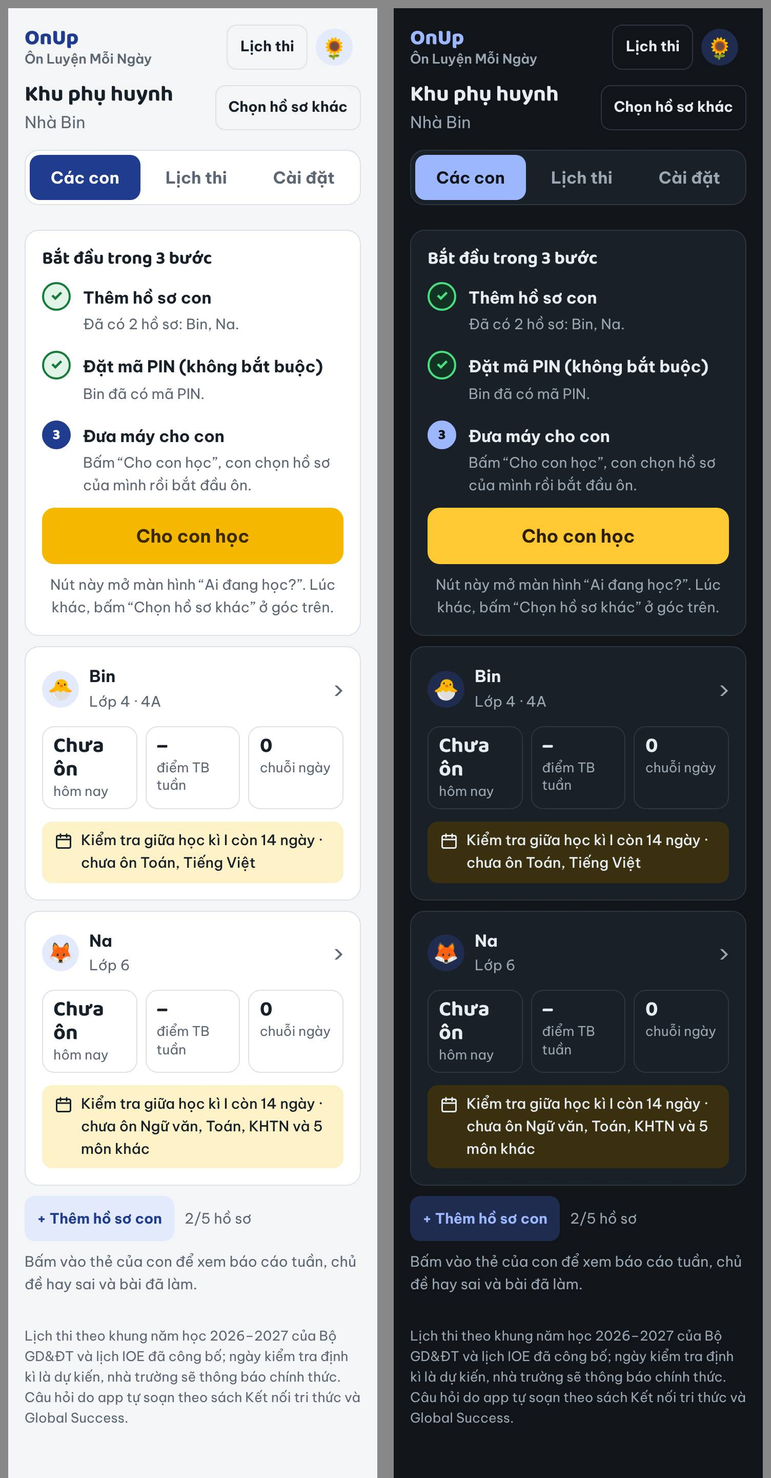
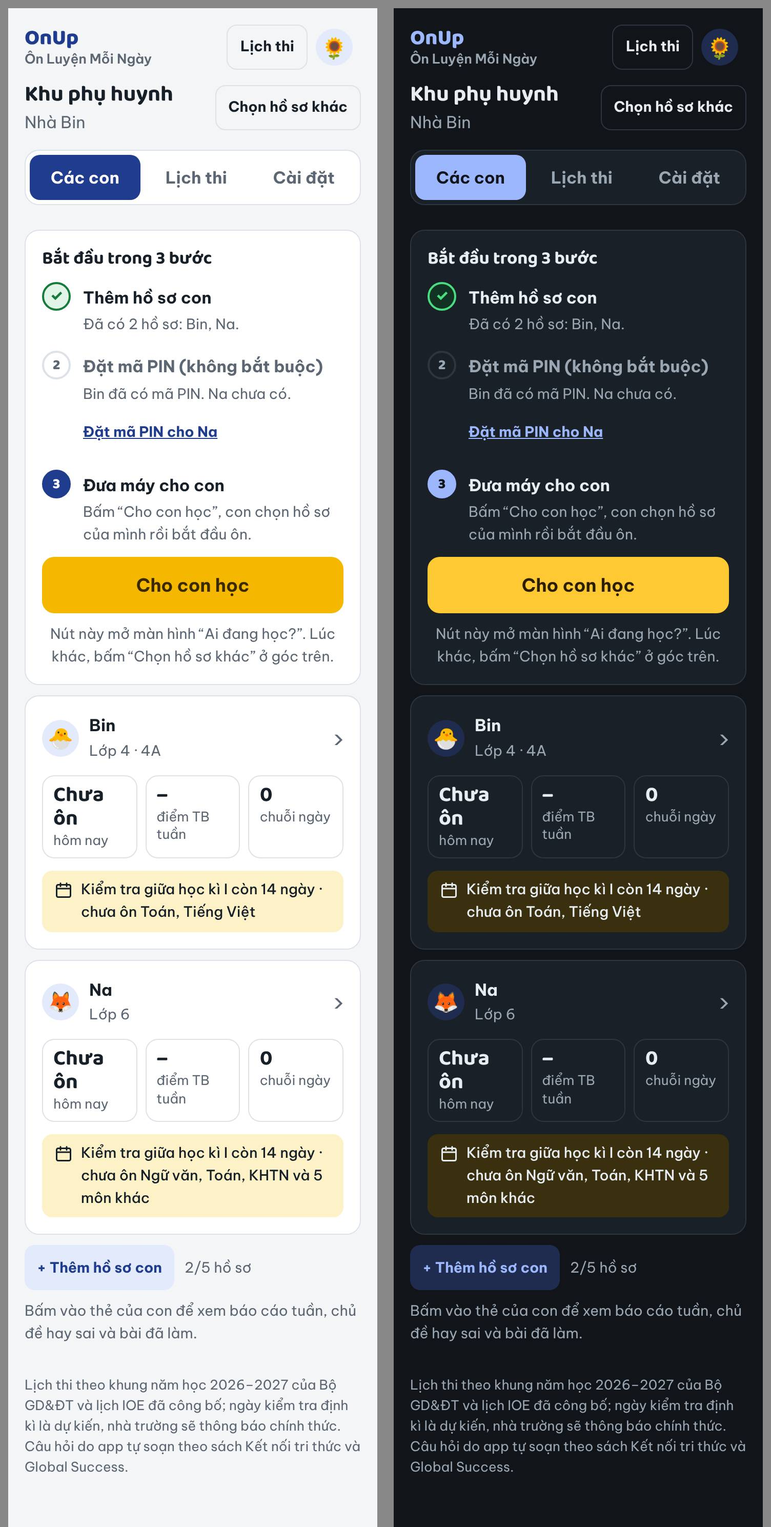
Docs Phiên UX3b: CLAUDE.md, kế hoạch (UX3b đã xong), TINH-NANG, ảnh docs/hinh-ux3
CLAUDE.md mục “Bắt đầu và chuyển máy cho con”: bước 2 của thẻ Bắt đầu, hộp
đăng xuất hỏi mật khẩu, chữ ô mã mở nhanh, checkPassword(mật khẩu, chỗ đặt
ô CAPTCHA?), các kiểm tra và ảnh mới. Kế hoạch: UX3b đã xong, tiếp theo là
UX5. Ảnh 360px sáng/tối từ cloud-e2e.js: thẻ Bắt đầu khi Na chưa có mã, form
mở từ thẻ, thẻ khi đủ mã, hộp đăng xuất (và khi sai mật khẩu), ô mã mở nhanh,
trang Tài khoản trên máy chưa ghi nhớ.

Claude-Session: https://claude.ai/code/session_01KisjWxbJuciHQexW322w5b

diff --git a/CLAUDE.md b/CLAUDE.md
@@ -106,11 +106,13 @@ App còn **đọc** (không ghi) DOM của khung để biết học sinh đang l
 - **Cài đặt (bản đám mây):** Hồ sơ con (N/5, danh sách, + Thêm), Đề tự soạn (số đề, nút “Xem đề tự soạn” → `#/admin/banks`, “+ Nhập đề”), Thông tin chung (tên gia đình, năm học), rồi hai dòng “Chuyển dữ liệu và sao lưu” (`#/admin/data`: chuyển dữ liệu máy này, câu bị báo sai, tải file sao lưu) và “Tài khoản” (`#/account`: đổi mật khẩu, đăng xuất; nút quay lại về Cài đặt). `#/admin/users` (địa chỉ cũ) về Cài đặt; `#/admin/banks` là trang “Đề tự soạn” (đề tự nhập trước, mỗi đề ghi đã gắn vào kì thi nào; đề có sẵn thu gọn trong `details#seedBanks`); hai trang con hiện tab Cài đặt đang chọn (`SETTINGS_SUB`). Form nhập đề ở bản đám mây gọi là “Nhập đề”, nút “Lưu đề”. Thêm hồ sơ con xong về Các con, sửa xong về Cài đặt (`renderUserForm`).
 - Kiểm thử: bước UX2 của `tests/e2e.js` (phụ huynh bản lưu trên máy, ảnh `tests/screenshots/ux2/`) và các kiểm tra “UX2:” của `tests/supabase/cloud-e2e.js` (ảnh `c5-cai-dat`, `c5b-de-tu-soan`, `c6-cac-con`, `c6b-lich-thi`, `c6c-sua-ngay`, `c11-cac-con`, `c12-bao-cao-tuan`).
 
-### Bắt đầu và chuyển máy cho con (Phiên UX3, bản đám mây, js/app.js + js/store-supabase.js)
-- **Thẻ “Bắt đầu trong 3 bước”** (`startCard`, `section#start`) đứng đầu mục Các con: Thêm hồ sơ con (nút “+ Thêm hồ sơ con” nằm trong thẻ khi chưa có con; có con thì ghi tên các con) → Đặt mã PIN (không bắt buộc; con nào có PIN thì ✓, chưa ai có thì link “Đặt mã PIN” sang form sửa hồ sơ, nhiều con thì sang Cài đặt) → Đưa máy cho con. Bước đang làm `.step.now`, bước xong `.step.done` (dấu ✓). Nút to “Cho con học” (`#letStudy`, `.btn.lg`, mờ khi chưa có hồ sơ con) gọi `switchWho` mở “Ai đang học?”. Thẻ ẩn khi một con đã học (`startDone`: con có kết quả, hoặc đã chọn hồ sơ con trên máy này — `Store.lastUserId()`); chưa có con thì mục Các con chỉ có thẻ này (không có dòng “N/5 hồ sơ”).
+### Bắt đầu và chuyển máy cho con (Phiên UX3, sửa sau kiểm thử ở Phiên UX3b; bản đám mây, js/app.js + js/store-supabase.js)
+- **Thẻ “Bắt đầu trong 3 bước”** (`startCard`, `section#start`) đứng đầu mục Các con: Thêm hồ sơ con (nút “+ Thêm hồ sơ con” nằm trong thẻ khi chưa có con; có con thì ghi tên các con) → Đặt mã PIN (không bắt buộc) → Đưa máy cho con. Bước đang làm `.step.now`, bước xong `.step.done` (dấu ✓). Nút to “Cho con học” (`#letStudy`, `.btn.lg`, mờ khi chưa có hồ sơ con) gọi `switchWho` mở “Ai đang học?”. Thẻ ẩn khi một con đã học (`startDone`: con có kết quả, hoặc đã chọn hồ sơ con trên máy này — `Store.lastUserId()`); chưa có con thì mục Các con chỉ có thẻ này (không có dòng “N/5 hồ sơ”).
+- **Bước 2 “Đặt mã PIN”** (UX3b, X18, X19): chỉ ✓ khi mọi con đã có mã. Còn con chưa có thì ghi “Bin đã có mã PIN. Na chưa có.” (chưa ai có thì “Để anh chị em không vào nhầm hồ sơ của nhau.”) kèm link “Đặt mã PIN cho Na” (`.step .linkbtn`) mở thẳng hồ sơ của con đầu tiên chưa có mã, kể cả khi nhà nhiều con: `#/admin/user/<mã>?tu=batdau`. `renderUserForm` với `query.tu === "batdau"` (`fromStart`): ô `#uPin` được focus và cuộn vào giữa màn hình; nút quay lại và lưu xong về Các con (`#/admin/overview`), có mã thì toast “Đã đặt mã PIN cho <tên>”, để trống thì toast “Đã lưu” như thường. Mở form từ chỗ khác (Cài đặt → Hồ sơ con, báo cáo của con) thì vẫn về Cài đặt như UX2. Bước 3 và nút “Cho con học” bật khi đã có hồ sơ con, kể cả khi bước 2 chưa xong.
+- **Đăng xuất khỏi máy này hỏi mật khẩu** (UX3b, X17, màn E4): nút `#signOut` ở trang Tài khoản của Phụ huynh (`renderCloudAccount`) gọi `openSignOut`, vẽ hộp `form.confirm#outBox` vào `#outArea` ngay dưới hàng nút (không phải hộp nổi): “Đăng xuất khỏi máy này?”, dòng “Nhập mật khẩu của bố mẹ để xác nhận. Mã mở nhanh không dùng được ở đây.”, ô `#outPw` (`type="password"`, nút xem qua `wireReveal`), ô CAPTCHA `#outCaptcha`, lỗi `#outErr`, nút “Đăng xuất” `#outYes` và “Thôi” `#outNo`, dòng “Quên mật khẩu?” (`contactLine`). Lúc nào cũng hỏi, kể cả khi vừa nhập mật khẩu (`parentUnlocked`); mã mở nhanh không dùng được. Kiểm bằng `Store.checkPassword(mật khẩu, "#outCaptcha")`: tham số thứ hai là chỗ đặt ô CAPTCHA, mặc định `#pwCaptcha` (ô của form đổi mật khẩu và của bước nhập Phụ huynh). Sai thì báo trong hộp và `PinLock.fail` của Phụ huynh như ở bước nhập (đang phải đợi thì `#outYes` mờ, đếm ngược trong hộp, hết giờ tự bật lại); đúng thì `PinLock.clear`, `Store.signOut()` (xóa cả mã mở nhanh) rồi về màn đăng nhập. Nút Đăng xuất ở màn đổi mật khẩu tạm (`#npOut`) và màn tài khoản bị khóa (`#bOut`) giữ nguyên, không hỏi.
 - **“Chọn hồ sơ khác”** là tên thống nhất của nút về “Ai đang học?” (`#switchWho`, `switchWho()`): góc trên khu phụ huynh, trang Tài khoản của phụ huynh và của con. Không dùng “Đổi người học” nữa (UX4 dùng cùng tên cho link “← Chọn hồ sơ khác”).
-- **Mã mở nhanh khu phụ huynh:** trên máy đã ghi nhớ đăng nhập (`Store.rememberLogin()`), bố mẹ đặt mã 4–6 số ở Cài đặt → Tài khoản (`quickBox`, `form#qcBox`: ô `#qcNew` có `data-what="mã mở nhanh"`, nút Lưu mã / Đổi mã `#qcSave`, Bỏ mã `#qcDrop`; máy không ghi nhớ thì chỉ có lời nhắc chọn “Ghi nhớ trên máy này”). Kho: `Store.setQuickCode(mã | null)` (băm như PIN với muối ghi độ dài, lưu localStorage `ontap_cloud_quick` theo mã gia đình, không gửi lên máy chủ), `Store.quickCodeLen()` (0 = chưa có), `Store.checkQuickCode(mã)` (đúng thì mở khóa như vừa nhập mật khẩu, `setSession(PARENT)` được phép). Ở “Ai đang học?” (`renderLogin`), ô Phụ huynh ghi “Nhập mã mở nhanh” và mở bàn phím PIN dùng chung (`box.show(u, { label, sub, alt })`: nhãn ô `#pinLabel` “Mã mở nhanh”, dòng phụ `#pinSub`, link `#pinToPw` “Nhập mật khẩu” trong `#pinAlt`); ô mật khẩu có link `#pwToPin` “Dùng mã mở nhanh”. Sai mã tính vào `PinLock` của Phụ huynh như sai mật khẩu. Đổi mật khẩu, đăng xuất vẫn cần mật khẩu; đăng xuất (cả khi máy chủ từ chối phiên) xóa mã. Không có màn hỏi “Đây là máy của nhà mình?” (chủ app bỏ, 18/10/2026).
-- Kiểm thử: `tests/supabase/store-test.mjs` (mục 6: đặt, kiểm tra, bỏ mã; máy không ghi nhớ không đặt được) và các kiểm tra “UX3:” của `tests/supabase/cloud-e2e.js` (ảnh `c3-khu-phu-huynh-moi`, `c6-cac-con`, `c10b-ma-mo-nhanh`, `c13b-ma-mo-nhanh`; chép sang `docs/hinh-ux3/`).
+- **Mã mở nhanh khu phụ huynh:** trên máy đã ghi nhớ đăng nhập (`Store.rememberLogin()`), bố mẹ đặt mã 4–6 số ở Cài đặt → Tài khoản (`quickBox`, `form#qcBox`: ô `#qcNew` có `data-what="mã mở nhanh"`, nút Lưu mã / Đổi mã `#qcSave`, Bỏ mã `#qcDrop`; dòng cuối “Mã chỉ lưu trên máy này, không gửi đi đâu…”, không có chữ kĩ thuật như “băm”; máy không ghi nhớ thì chỉ có lời nhắc: bấm “Đăng xuất khỏi máy này”, rồi đăng nhập lại và chọn “Ghi nhớ trên máy này”, X20). Kho: `Store.setQuickCode(mã | null)` (băm như PIN với muối ghi độ dài, lưu localStorage `ontap_cloud_quick` theo mã gia đình, không gửi lên máy chủ), `Store.quickCodeLen()` (0 = chưa có), `Store.checkQuickCode(mã)` (đúng thì mở khóa như vừa nhập mật khẩu, `setSession(PARENT)` được phép). Ở “Ai đang học?” (`renderLogin`), ô Phụ huynh ghi “Nhập mã mở nhanh” và mở bàn phím PIN dùng chung (`box.show(u, { label, sub, alt })`: nhãn ô `#pinLabel` “Mã mở nhanh”, dòng phụ `#pinSub`, link `#pinToPw` “Nhập mật khẩu” trong `#pinAlt`); ô mật khẩu có link `#pwToPin` “Dùng mã mở nhanh”. Sai mã tính vào `PinLock` của Phụ huynh như sai mật khẩu. Đổi mật khẩu, đăng xuất vẫn cần mật khẩu; đăng xuất (cả khi máy chủ từ chối phiên) xóa mã. Không có màn hỏi “Đây là máy của nhà mình?” (chủ app bỏ, 18/10/2026).
+- Kiểm thử: `tests/supabase/store-test.mjs` (mục 6: đặt, kiểm tra, bỏ mã; máy không ghi nhớ không đặt được; mục 10: `checkPassword` đặt ô CAPTCHA vào chỗ được truyền) và các kiểm tra “UX3:”, “UX3b (X17–X20)” của `tests/supabase/cloud-e2e.js` (ảnh `c3-khu-phu-huynh-moi`, `c6-cac-con` (Bin có mã, Na chưa), `c6d-dat-ma-pin-tu-the`, `c6e-du-ma-pin`, `c10b-ma-mo-nhanh`, `c13b-ma-mo-nhanh`, `c13c-dang-xuat`, `c13d-dang-xuat-sai`, `c14b-tai-khoan-chua-ghi-nho`; chép sang `docs/hinh-ux3/`).
 
 ### Chọn hồ sơ và nhập PIN (Phiên UX4, js/app.js + css/app.css, cả hai bản)
 - **Bước nhập riêng** `#/vao/<mã>` (`renderEnter`): ở danh sách “Ai đang học?” / “Xin chào!” (`renderLogin`), chạm hồ sơ phải nhập (`needsEntry`: bản lưu trên máy mọi tài khoản; bản đám mây hồ sơ con có PIN và ô Phụ huynh) thì đổi hash sang `#/vao/<mã>` (`enterHash`), nên nút Back của điện thoại về danh sách; hồ sơ không có PIN chạm là vào. Màn nhập: link `#toList` “← Chọn hồ sơ khác” (mở từ danh sách thì `history.back()`, mở thẳng thì `location.replace("#/")`), đầu trang `#pinWho` (hình to, tên, lớp; Phụ huynh: tên gia đình · tên đăng nhập), rồi `#pinBox` (dòng `#pinSub` “Nhập mã PIN của bạn”, hàng chấm `#pinDots`, lỗi `#pinErr`, nút chữ `#pinShow` “Hiện số”, bàn phím `.pad`, link `#pinAlt`) và dòng `#pinHelp` quên PIN (bản đám mây: “Nhờ bố mẹ đặt lại trong Khu phụ huynh → Cài đặt → Hồ sơ con.”; bản lưu trên máy: “Nhờ quản trị đặt lại trong Quản trị → Tài khoản.”; không có ở vai trò admin). Cả màn vừa 360×740 không cuộn (`renderLogin` gọi `scrollTo(0, 0)`); `.enter`, `.enter-who`, `.enter-help` trong css/app.css. Vào được thì `loginEnter` thay mục lịch sử `#/vao/…` bằng `#/home` (`location.replace`); `route()` có `case "vao"` về trang chính khi đã đăng nhập; `calm()` không vẽ lại khi đang ở `/vao/`. Hồ sơ chọn gần nhất (`Store.lastUserId()`) chỉ được đánh dấu `aria-pressed` trên danh sách, không mở sẵn bàn phím nữa. Đếm ngược dùng biến `loginTick` chung, `renderLogin` dừng khi vẽ lại.
@@ -161,9 +163,9 @@ Máy chủ (`supabase/schema.sql`, Edge Function `admin`):
 
 Phía trình duyệt (`js/store-supabase.js`, phần đám mây của `js/app.js`):
 - Giao diện giống hệt LocalStore: hàm đọc đồng bộ (đọc từ bộ nhớ đệm tải lúc đăng nhập), `createUser`/`updateUser`/`checkPin` async. Hàm ghi cập nhật bộ nhớ đệm ngay rồi đẩy lên máy chủ theo hàng đợi; lỗi thì gọi `Store.onError` (app hiện toast) và tải lại dữ liệu thật. **Thêm hàm mới vào Store thì thêm ở cả hai kho**; `tests/supabase/store-test.mjs` so danh sách hàm.
-- Hàm chỉ có ở bản đám mây: `init, refresh, flush, authState ("signed-out"|"change-password"|"locked"|"no-family"|"ready"), signIn(tên, mật khẩu, ghi nhớ), signOut, checkPassword, changePassword(mới, hiện tại?), parentUnlocked, quickCodeLen, setQuickCode(mã | null), checkQuickCode(mã), rememberLogin, username, plan ({id, name, maxChildren, until}), localData, migrate, migratedAt`.
+- Hàm chỉ có ở bản đám mây: `init, refresh, flush, authState ("signed-out"|"change-password"|"locked"|"no-family"|"ready"), signIn(tên, mật khẩu, ghi nhớ), signOut, checkPassword(mật khẩu, chỗ đặt ô CAPTCHA?), changePassword(mới, hiện tại?), parentUnlocked, quickCodeLen, setQuickCode(mã | null), checkQuickCode(mã), rememberLogin, username, plan ({id, name, maxChildren, until}), localData, migrate, migratedAt`.
 - Người dùng trong bộ nhớ đệm: một người dùng ảo `Phụ huynh` (mã `phu-huynh`, vai trò `admin` của app, nên dùng chung các màn hình quản trị, trên giao diện gọi là “Khu phụ huynh”; `Store.ROLES.admin` = “Phụ huynh”) và mỗi hồ sơ con là một học sinh (`parentIds: ["phu-huynh"]`, thêm `hasPin`, `locked`). Bản đám mây chỉ thêm, sửa, xóa hồ sơ con; tài khoản của bố mẹ do chủ app quản lý.
-- Luồng (js/app.js `route()`): chưa đăng nhập → `renderCloudLogin` (tên đăng nhập + mật khẩu + “Ghi nhớ trên máy này” + dòng “Quên mật khẩu?” từ `contactText`, `contactUrl` của js/config.js; dưới form là thẻ “Chưa có tài khoản?” với link từ `signupText`, `signupUrl`, khóa nào trống thì lấy khóa contact tương ứng, cả hai qua `contactLink`; trên form có thẻ nhắc `#oldData` khi máy còn dữ liệu bản lưu trên máy có học sinh (`Store.localData()`) mà chưa chuyển (`Store.migratedAt()` trống)); mật khẩu tạm → `renderNewPassword` (bắt đổi); bị khóa hoặc không có gia đình (ví dụ tài khoản chủ app) → `renderCloudBlocked`; đã đăng nhập mà tab chưa chọn ai → `renderLogin` thành màn hình “Ai đang học?”. Hồ sơ con có PIN thì sang bước nhập riêng `#/vao/<mã>` (UX4) nhập PIN, không có thì bấm là vào; Phụ huynh (cũng ở bước riêng đó) phải nhập lại mật khẩu (`checkPassword`, sai cũng tính vào `PinLock`) hoặc mã mở nhanh đã đặt trên máy này (`checkQuickCode`, Phiên UX3), vừa nhập trong 5 phút thì không hỏi lại (`parentUnlocked`; `setSession` của Phụ huynh cũng kiểm tra). Tài khoản chưa có hồ sơ con và vừa đăng nhập thì vào thẳng khu phụ huynh. “Chọn hồ sơ khác” (`switchWho`: `setSession(null)`) về “Ai đang học?” mà không đăng xuất; chỉ Phụ huynh đăng xuất được (trang Tài khoản, mở từ Cài đặt, kèm đổi mật khẩu, mã mở nhanh). Khu phụ huynh có ba mục Các con · Lịch thi · Cài đặt (xem “Khu phụ huynh gọn lại”).
+- Luồng (js/app.js `route()`): chưa đăng nhập → `renderCloudLogin` (tên đăng nhập + mật khẩu + “Ghi nhớ trên máy này” + dòng “Quên mật khẩu?” từ `contactText`, `contactUrl` của js/config.js; dưới form là thẻ “Chưa có tài khoản?” với link từ `signupText`, `signupUrl`, khóa nào trống thì lấy khóa contact tương ứng, cả hai qua `contactLink`; trên form có thẻ nhắc `#oldData` khi máy còn dữ liệu bản lưu trên máy có học sinh (`Store.localData()`) mà chưa chuyển (`Store.migratedAt()` trống)); mật khẩu tạm → `renderNewPassword` (bắt đổi); bị khóa hoặc không có gia đình (ví dụ tài khoản chủ app) → `renderCloudBlocked`; đã đăng nhập mà tab chưa chọn ai → `renderLogin` thành màn hình “Ai đang học?”. Hồ sơ con có PIN thì sang bước nhập riêng `#/vao/<mã>` (UX4) nhập PIN, không có thì bấm là vào; Phụ huynh (cũng ở bước riêng đó) phải nhập lại mật khẩu (`checkPassword`, sai cũng tính vào `PinLock`) hoặc mã mở nhanh đã đặt trên máy này (`checkQuickCode`, Phiên UX3), vừa nhập trong 5 phút thì không hỏi lại (`parentUnlocked`; `setSession` của Phụ huynh cũng kiểm tra). Tài khoản chưa có hồ sơ con và vừa đăng nhập thì vào thẳng khu phụ huynh. “Chọn hồ sơ khác” (`switchWho`: `setSession(null)`) về “Ai đang học?” mà không đăng xuất; chỉ Phụ huynh đăng xuất được (trang Tài khoản, mở từ Cài đặt, kèm đổi mật khẩu, mã mở nhanh; đăng xuất hỏi mật khẩu trước, xem “Bắt đầu và chuyển máy cho con”). Khu phụ huynh có ba mục Các con · Lịch thi · Cài đặt (xem “Khu phụ huynh gọn lại”).
 - Hồ sơ đang dùng giữ trong sessionStorage (`ontap_cloud_who`), hồ sơ con chọn gần nhất ở localStorage (`ontap_cloud_last`), mã mở nhanh khu phụ huynh ở localStorage (`ontap_cloud_quick`, theo mã gia đình). Phiên Supabase giữ trong sessionStorage, chọn “Ghi nhớ” thì localStorage (`ontap_sb_auth`). Phiên bị máy chủ từ chối (hết hạn, chủ app đặt lại mật khẩu) thì tự đăng xuất trên máy và xóa mã mở nhanh.
 - PIN hồ sơ con: 4 số, không bắt buộc, băm trên máy như `hashPin` của js/store.js, lưu `pin_hash = "<muối>$<mã băm>"`; muối bắt đầu bằng `<độ dài>.` để bàn phím tự vào khi gõ đủ. PIN chuyển từ máy cũ (`import_local`, 4–6 số, chưa biết độ dài) nhập đúng một lần thì được băm lại kèm độ dài.
 - Tài khoản mới (Edge Function chỉ tạo dòng `families`) chưa có kì thi nào: lần mở đầu app chép lịch mặc định lên máy chủ. Đề có sẵn (data/banks/) không lưu lên máy chủ; `seed_banks_seen` của family làm việc như `seedBanksSeen`.

diff --git a/docs/KE-HOACH-PHAT-TRIEN-ONUP.md b/docs/KE-HOACH-PHAT-TRIEN-ONUP.md
@@ -1,10 +1,10 @@
 # Kế hoạch phát triển OnUp
 
-> **Trạng thái (18/10/2026):** trang thật https://dunglnh.github.io/OnUp/ chạy **bản đám mây** từ 17/10 (PR #27), đang chạy thử trong gia đình, chỉ dành cho gia đình được mời. Đã xong: khung tài khoản (Phiên A, B, C), sửa lỗi chạy thử (9a–9d), U1, K1, K2, K3 (đề ngẫu nhiên theo ma trận), đề N0a, N0b, đồng bộ tài liệu D0, UI1, S1 (màn đăng nhập cho người mới), R1 (nút “Báo câu này sai”; chủ app chạy `supabase/cap-nhat-r1.sql` sau khi Merge), TA1 (nội dung 3 đề Tiếng Anh 100% tiếng Anh), 9e (sửa L22–L26 sau K3), TA2 (màn làm đề Tiếng Anh bằng tiếng Anh: bảng chữ `TXT` trong js/quiz.js), UX1 (trang “Hôm nay” với thanh tab dưới cho học sinh; màn kết quả có lời khen, so với lần trước, ôn lại câu sai), UX2 (khu phụ huynh gọn lại: Các con · Lịch thi · Cài đặt, thẻ của con mở báo cáo tuần, sửa ngày thi tại chỗ), UX3 (thẻ “Bắt đầu trong 3 bước”, nút “Chọn hồ sơ khác”, mã mở nhanh khu phụ huynh trên máy đã ghi nhớ), 9f (sửa L27: bài ôn dạng trang bỏ câu khỏi “Ôn câu sai” khi làm đúng ở bất kì chế độ nào, cả đề thi thử), UX4 (bước nhập PIN riêng `#/vao/<mã>` không cuộn, số chỉ hiện ở hàng chấm với nút “Hiện số”, đếm ngược dưới hàng chấm và bàn phím mờ khi phải đợi, chạm hình đại diện là lưu ngay). Còn chờ bố mẹ thử L17 (sao lưu trên iPhone thật, [SUA-LOI-CHAY-THU.md](SUA-LOI-CHAY-THU.md) mục 2, Phiên 9d). Kho đề: `node tests/kiem-tra-de.js` in số đề, số câu, dạng câu (18/10: 29 đề, 715 câu, 6 đề ngẫu nhiên).
+> **Trạng thái (18/10/2026):** trang thật https://dunglnh.github.io/OnUp/ chạy **bản đám mây** từ 17/10 (PR #27), đang chạy thử trong gia đình, chỉ dành cho gia đình được mời. Đã xong: khung tài khoản (Phiên A, B, C), sửa lỗi chạy thử (9a–9d), U1, K1, K2, K3 (đề ngẫu nhiên theo ma trận), đề N0a, N0b, đồng bộ tài liệu D0, UI1, S1 (màn đăng nhập cho người mới), R1 (nút “Báo câu này sai”; chủ app chạy `supabase/cap-nhat-r1.sql` sau khi Merge), TA1 (nội dung 3 đề Tiếng Anh 100% tiếng Anh), 9e (sửa L22–L26 sau K3), TA2 (màn làm đề Tiếng Anh bằng tiếng Anh: bảng chữ `TXT` trong js/quiz.js), UX1 (trang “Hôm nay” với thanh tab dưới cho học sinh; màn kết quả có lời khen, so với lần trước, ôn lại câu sai), UX2 (khu phụ huynh gọn lại: Các con · Lịch thi · Cài đặt, thẻ của con mở báo cáo tuần, sửa ngày thi tại chỗ), UX3 (thẻ “Bắt đầu trong 3 bước”, nút “Chọn hồ sơ khác”, mã mở nhanh khu phụ huynh trên máy đã ghi nhớ), 9f (sửa L27: bài ôn dạng trang bỏ câu khỏi “Ôn câu sai” khi làm đúng ở bất kì chế độ nào, cả đề thi thử), UX4 (bước nhập PIN riêng `#/vao/<mã>` không cuộn, số chỉ hiện ở hàng chấm với nút “Hiện số”, đếm ngược dưới hàng chấm và bàn phím mờ khi phải đợi, chạm hình đại diện là lưu ngay), UX3b (sửa sau kiểm thử UX3: đăng xuất hỏi mật khẩu, đặt mã PIN từ thẻ Bắt đầu xong về Các con, bước 2 ghi con chưa có mã, chữ ô mã mở nhanh). Còn chờ bố mẹ thử L17 (sao lưu trên iPhone thật, [SUA-LOI-CHAY-THU.md](SUA-LOI-CHAY-THU.md) mục 2, Phiên 9d). Kho đề: `node tests/kiem-tra-de.js` in số đề, số câu, dạng câu (18/10: 29 đề, 715 câu, 6 đề ngẫu nhiên).
 > **Đã chốt 18/10/2026:** bán khi đủ đề lớp 4–12 (theo nhịp 1–2 phiên mỗi tuần: khoảng cuối năm học 2028–2029); đến lúc đó gói Miễn phí giữ như hiện nay (5 hồ sơ, mọi đề; bảng `plans` không đổi), hạn mức hai gói lúc bán chốt sau; các phiên chuẩn bị bán G1, B1, B2, B4 làm ngay trước lúc đó; Supabase giữ gói Free đến khi bắt đầu thu tiền (chủ app xuất CSV hằng tuần, mở app mỗi tuần); trang công khai chỉ dành cho gia đình được mời (màn đăng nhập có dòng “Chưa có tài khoản?”, Phiên S1); câu sai báo bằng nút trong app (Phiên R1), GitHub Issues chỉ còn cho chủ app; không ghi giá bán, chi phí hay so sánh đối thủ vào repo. Thiết kế gói: mục 9 của [THIET-KE-TAI-KHOAN.md](THIET-KE-TAI-KHOAN.md).
 > **Quy ước (từ Phiên D0):** chỉ file này ghi trạng thái và lộ trình. CLAUDE.md, README và các tài liệu khác trong docs/ chỉ trỏ sang đây. Làm xong một phiên thì gạch dòng của nó ở mục 3 và ghi số PR; đổi quyết định thì sửa đoạn trên trước.
 > **Rà soát toàn app sau K3 (18/10/2026):** app chạy tốt, 35 mục đề làm đúng hết đều được 10/10; lỗi mới L20 (PR #47 của R1 đã sửa), L22–L26 và yêu cầu L21 xếp vào Phiên TA1, 9e, TA2, làm trước UX1 ([SUA-LOI-CHAY-THU.md](SUA-LOI-CHAY-THU.md), nhóm E). **Chủ app chốt thêm (18/10/2026):** môn Tiếng Anh của mọi khối 100% tiếng Anh, cả lời dặn, lời giải và giao diện làm đề (quy tắc ở [KE-HOACH-NOI-DUNG.md](KE-HOACH-NOI-DUNG.md) mục 3).
-> **Tiếp theo:** Phiên UX3b (sửa sau kiểm thử thiết kế UX3: đăng xuất hỏi mật khẩu, đặt mã PIN từ thẻ Bắt đầu, [CAI-TIEN-UX-2X.md](CAI-TIEN-UX-2X.md) mục 5), rồi UX5 (làm bài tập trung, trước kì thi cuối kì I từ 21/12) và N1–N6 (đủ đề cuối kì I lớp 4 và 6); bố mẹ thử lại L27 trên máy đang dùng sau khi Merge PR #57 (làm lại một đề đúng hết thì “Ôn câu sai” không còn câu của đề đó). Mục 2 (việc của chủ app) và mục 3 (thứ tự các phiên). Mục 5: nhật ký chạy thử, chủ app tự điền.
+> **Tiếp theo:** Phiên UX5 (làm bài tập trung, trước kì thi cuối kì I từ 21/12) và N1–N6 (đủ đề cuối kì I lớp 4 và 6); bố mẹ thử lại L27 trên máy đang dùng sau khi Merge PR #57 (làm lại một đề đúng hết thì “Ôn câu sai” không còn câu của đề đó). Mục 2 (việc của chủ app) và mục 3 (thứ tự các phiên). Mục 5: nhật ký chạy thử, chủ app tự điền.
 
 ## 1. Tình hình hiện tại
 
@@ -55,6 +55,7 @@
 | #56 | Phiên UX3: thẻ “Bắt đầu trong 3 bước” ở mục Các con (thêm hồ sơ con → đặt mã PIN, không bắt buộc → đưa máy cho con; nút to “Cho con học” mở “Ai đang học?”, thẻ ẩn khi một con đã học); “Đổi người học” thành “Chọn hồ sơ khác” ở mọi chỗ; mã mở nhanh 4–6 số của khu phụ huynh trên máy đã ghi nhớ (Cài đặt → Tài khoản; băm, lưu trên máy, không lên máy chủ; ô Phụ huynh ở “Ai đang học?” có bàn phím mã và link “Nhập mật khẩu”; đổi mật khẩu, đăng xuất vẫn cần mật khẩu); ảnh `docs/hinh-ux3/` |
 | #59 | Phiên UX4: chọn hồ sơ và nhập PIN (X1–X4): chạm hồ sơ có PIN hoặc ô Phụ huynh thì sang bước nhập riêng `#/vao/<mã>` (hình to, tên, lớp, hàng chấm, bàn phím ngay dưới, vừa một màn hình 360×740; “← Chọn hồ sơ khác” và nút Back về danh sách); số đã gõ chỉ hiện ở hàng chấm, nút chữ “Hiện số”; lỗi và đếm ngược ngay dưới hàng chấm, đang đợi thì bàn phím mờ, hết giờ tự bật lại; trang Tài khoản chạm hình đại diện là lưu ngay, bản lưu trên máy có form đổi mã PIN riêng. Kiểm thử ở `tests/e2e.js` (bước UX4, ảnh `docs/hinh-ux4/`) và `tests/supabase/cloud-e2e.js` (các kiểm tra “UX4:”) |
 | #57 | Phiên 9f: sửa L27 trong 4 bài ôn dạng trang (làm đúng ở bất kì chế độ nào, cả đề thi thử, thì bỏ câu khỏi “Ôn câu sai”; chữ giải thích luật ở trang đầu; màn kết quả có dòng “Lần này bạn không sai câu nào…” khi danh sách còn câu từ lần trước, IOE tiếng Anh; nhãn 13px, nút tiêu đề 44px để qua kiểm tra 360px trong khung; bước L27 trong `tests/e2e.js`) |
+| #60 | Phiên UX3b: sửa sau kiểm thử thiết kế UX3 (X17–X20): “Đăng xuất khỏi máy này” hỏi mật khẩu của bố mẹ trong hộp mở ngay dưới nút (mã mở nhanh không dùng được, sai tính vào khóa tạm; `Store.checkPassword` nhận chỗ đặt ô CAPTCHA); link “Đặt mã PIN cho <tên>” ở thẻ Bắt đầu mở thẳng hồ sơ của con chưa có mã với ô Mã PIN được focus, lưu xong về Các con kèm toast “Đã đặt mã PIN cho <tên>”; bước 2 chỉ ✓ khi mọi con đã có mã; bỏ chữ “(đã băm)”, máy chưa ghi nhớ thì chỉ cách đăng xuất rồi đăng nhập lại có ghi nhớ; ảnh `docs/hinh-ux3/` |
 | #52 | Phiên TA2: màn làm đề Tiếng Anh bằng tiếng Anh (bảng chữ hai ngôn ngữ `TXT` trong `js/quiz.js`, `Quiz.lang`, `Quiz.title`; cả phần app bọc ngoài bài ôn IOE; chữ mới trên màn làm đề phải có cả bản tiếng Anh, CLAUDE.md “Quy ước code”); `tests/e2e.js` bước TA2, `cloud-e2e.js` c8e–c8g |
 
 Nội dung hiện có (18/10/2026, `node tests/kiem-tra-de.js`: 29 đề, 715 câu): 4 bài ôn (giữa kì I lớp 4, lớp 6; IOE 4 cấp trường, cấp xã và cấp tỉnh (Phiên 13); IOE 6 cấp xã và cấp thành phố), 19 đề cuối kì I (lớp 6 đủ 8 môn từ Phiên 10: thêm Tiếng Anh, GDCD, Tin học, Công nghệ; lớp 4 thêm Tin học và Công nghệ từ Phiên 11, Tiếng Anh từ Phiên N0b; nhiều môn mới có 1 đề, N1–N6 làm cho đủ), 4 đề giữa kì II lớp 4 (Toán, Tiếng Việt, Phiên 14), 5 đề giữa kì I lớp 6 (Tiếng Anh, Lịch sử và Địa lí, GDCD, Phiên N0a; Tin học, Công nghệ, Phiên N0b) và 1 đề thử nghiệm các dạng câu mới (Phiên K2).
@@ -105,7 +106,7 @@ Thứ tự các phiên:
 | 6 | 15/11 | ~~UX1 · Trang "Hôm nay" và màn kết quả của con~~ (đã xong, PR #53) | R1 (đã xong); ghi chép của chủ app chưa có, làm theo lời giao việc và ảnh B1, B2, C1, D1 | thanh tab dưới của học sinh ẩn trong lúc làm bài: UX5 |
 | 7 | 22/11 | ~~UX2 · Khu phụ huynh gọn lại~~ (đã xong, PR #54) | UX1 (đã xong); ghi chép của chủ app chưa có, làm theo lời giao việc và ảnh E1, E3, F2 | trang Đề tự soạn chia theo khối, môn, ô tìm: UX7 |
 | 8 | 29/11 | ~~UX3 · Bắt đầu và chuyển máy cho con~~ (đã xong, PR #56) | UX2 (đã xong); ghi chép của chủ app chưa có, làm theo lời giao việc và ảnh E2 | tên nút là “Chọn hồ sơ khác”; mã mở nhanh 4–6 số của khu phụ huynh lưu trên máy đã ghi nhớ |
-| 8b | 1/11 | **UX3b · Sửa sau kiểm thử UX3** | UX3 (đã xong) | bản đám mây, nhỏ: đăng xuất hỏi mật khẩu, đặt mã PIN từ thẻ Bắt đầu xong về Các con, bước 2 ghi con chưa có mã, chữ ô mã mở nhanh (X17–X20, [CAI-TIEN-UX-2X.md](CAI-TIEN-UX-2X.md) mục 3, 5); cùng sửa js/app.js; UX4 đã xong trước (PR #59) nên làm trên bản có bước nhập riêng |
+| 8b | 1/11 | ~~UX3b · Sửa sau kiểm thử UX3~~ (đã xong, PR #60) | UX3 (đã xong) | bản đám mây, nhỏ: đăng xuất hỏi mật khẩu, đặt mã PIN từ thẻ Bắt đầu xong về Các con, bước 2 ghi con chưa có mã, chữ ô mã mở nhanh (X17–X20, [CAI-TIEN-UX-2X.md](CAI-TIEN-UX-2X.md) mục 3, 5); cùng sửa js/app.js; UX4 đã xong trước (PR #59) nên làm trên bản có bước nhập riêng |
 | 9 | 6/12 | ~~UX4 · Chọn hồ sơ và nhập PIN~~ (đã xong, PR #59) | UX3 (đã xong; cùng sửa renderLogin, trang Tài khoản) | ô Phụ huynh có bàn phím mã mở nhanh kèm link “Nhập mật khẩu” (UX3 đã làm trên bàn phím PIN dùng chung); UX4 làm thành bước nhập mã riêng (A5b) |
 | 10 | 13/12 | **UX5 · Làm bài tập trung** | R1, UX1 (cùng sửa js/quiz.js) | xong trước kì thi cuối kì I (từ 21/12) |
 | 11 | 15/12 | **N1–N6 · Đủ đề cuối kì I lớp 4 và 6** ([KE-HOACH-NOI-DUNG.md](KE-HOACH-NOI-DUNG.md) mục 7) | K3; N5 (Tiếng Anh 6) sau TA1 | chỉ sửa file đề, chen được giữa các phiên UX |
@@ -260,7 +261,7 @@ Phiên K3 và các phiên làm đề N1–N25: lời giao việc ở mục 6, 7 
 >
 > Ghi chép của bố mẹ: […]
 
-**Phiên UX3b · Sửa sau kiểm thử UX3** (bản đám mây; sau UX3, trước UX4)
+**Phiên UX3b · Sửa sau kiểm thử UX3** (đã xong, PR #60; bản đám mây, làm sau UX4 nên trên bản có bước nhập riêng)
 > Đọc CLAUDE.md và docs/CAI-TIEN-UX-2X.md (mục 3, Phiên UX3b: X17–X20; mục 5, kiểm thử UX3; ảnh docs/hinh-ux-2x/kt-ux3-dang-xuat.jpg, kt-ux3-dat-pin.jpg). Sửa trong js/app.js và js/store-supabase.js, chỉ bản đám mây:
 > - X17: nút "Đăng xuất khỏi máy này" ở trang Tài khoản của Phụ huynh hỏi mật khẩu trước (E4). Hộp mở ngay dưới nút, gồm:
 >   - dòng "Nhập mật khẩu của bố mẹ để xác nhận. Mã mở nhanh không dùng được ở đây.";
